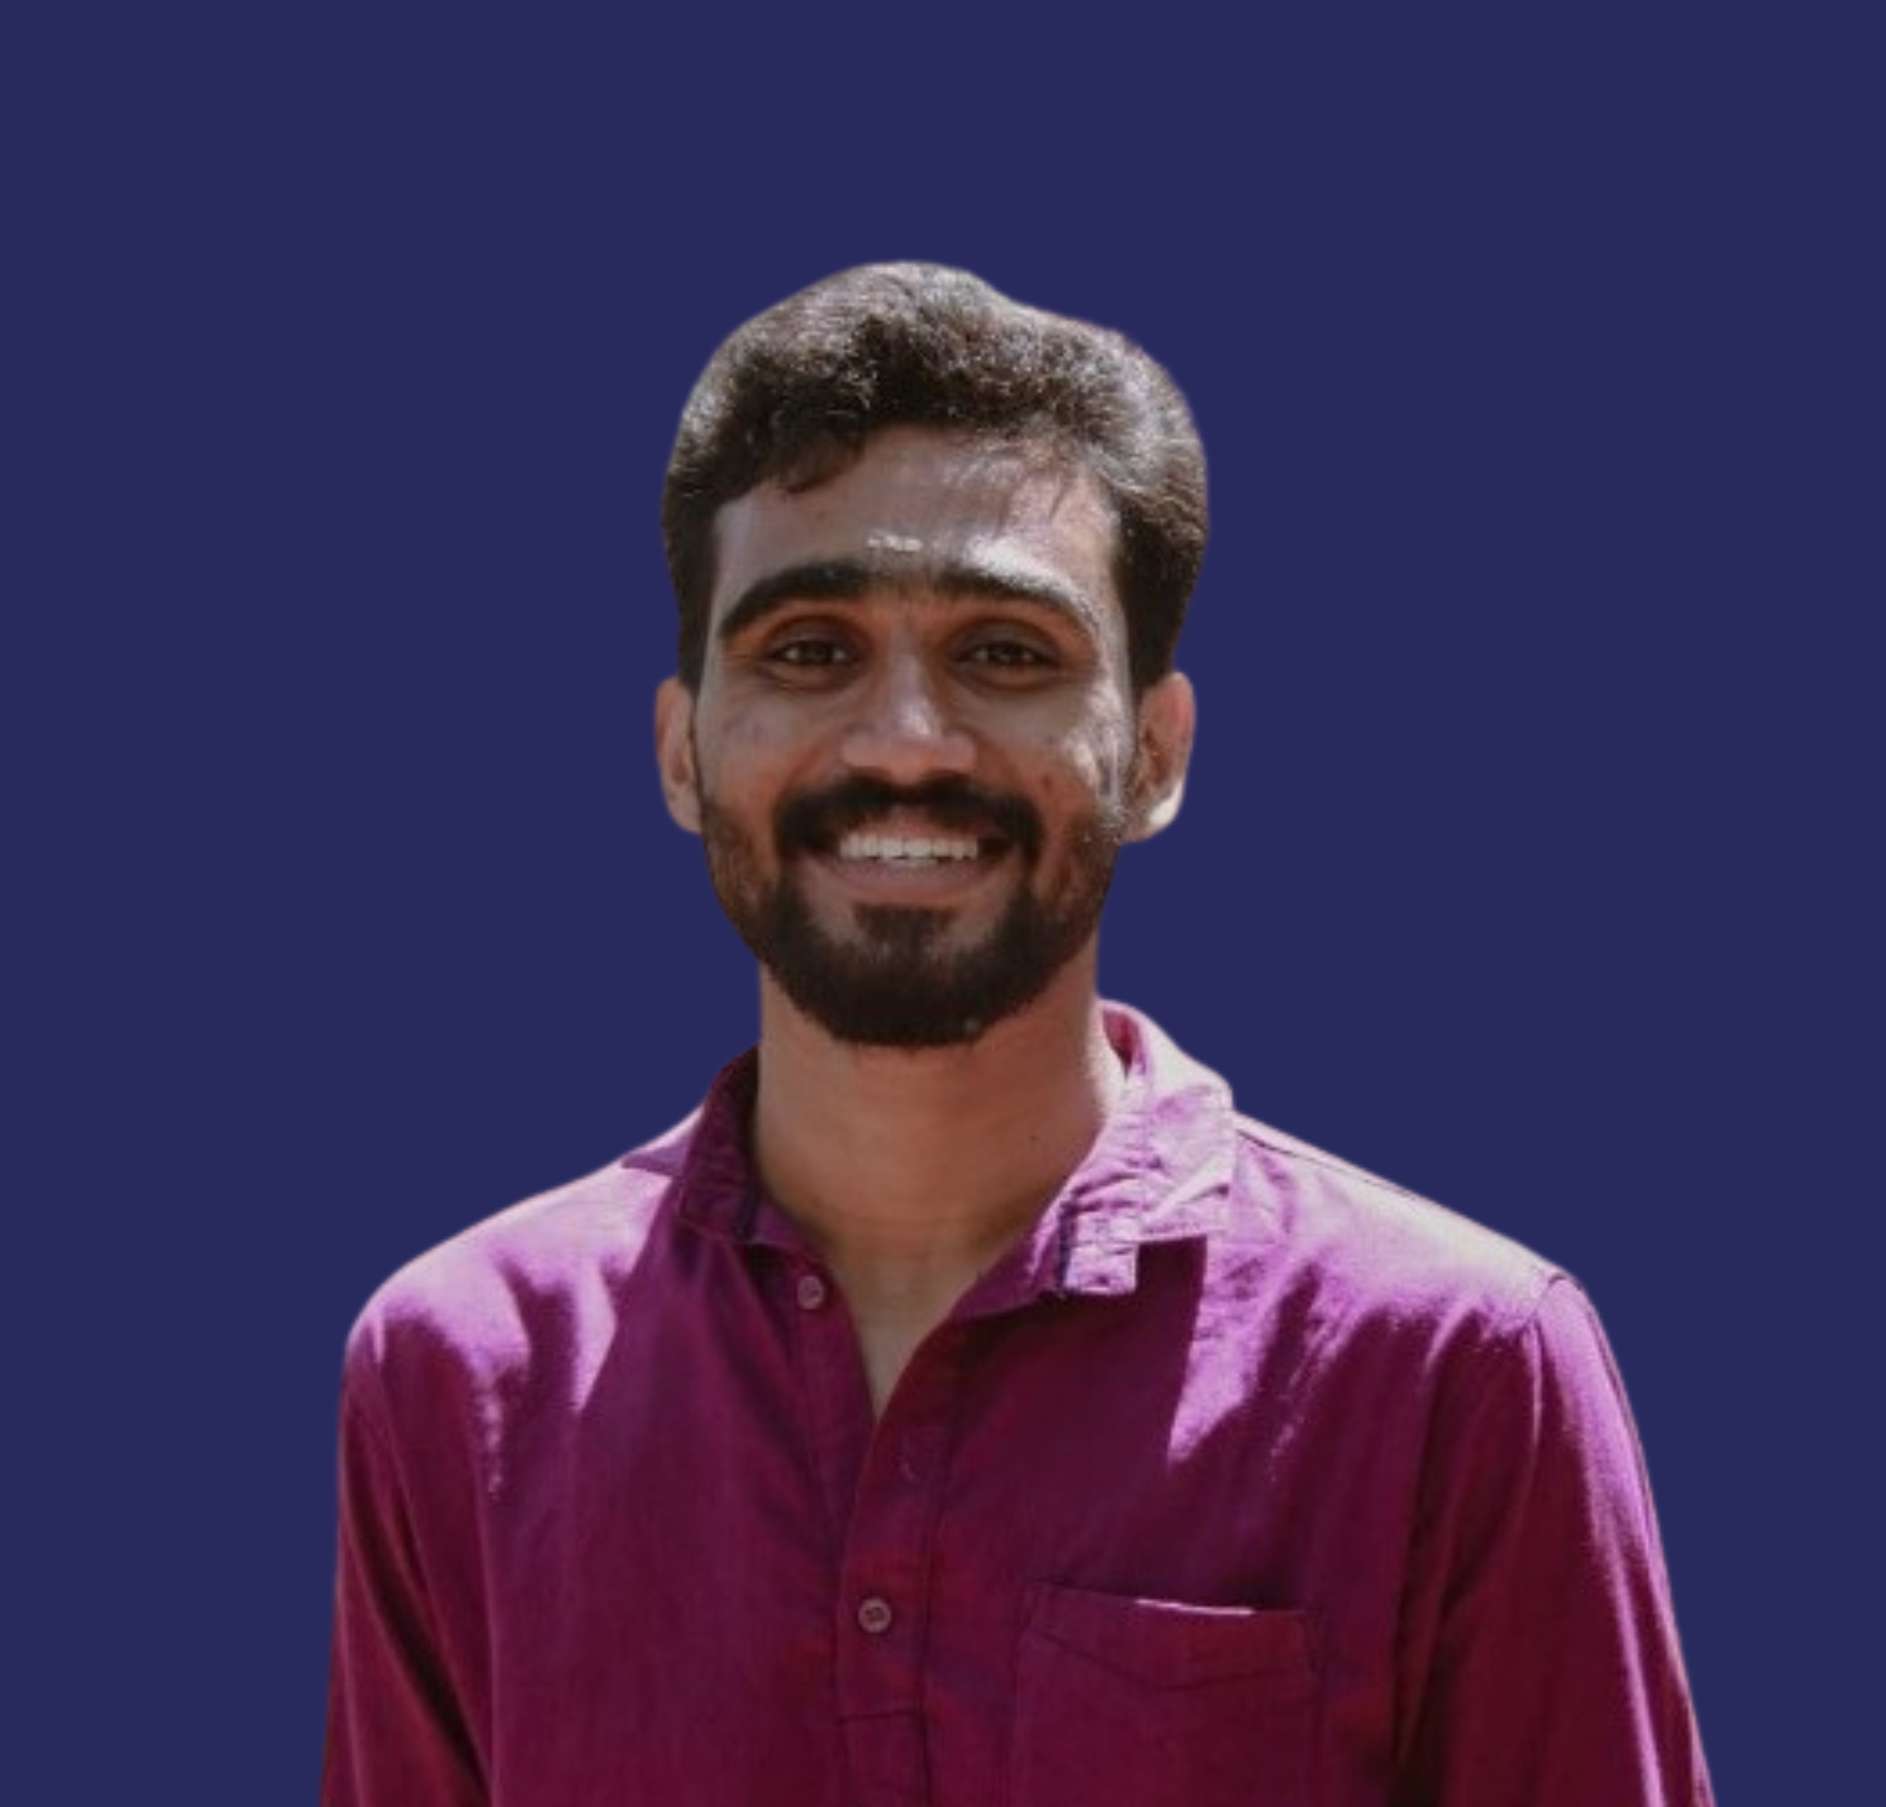
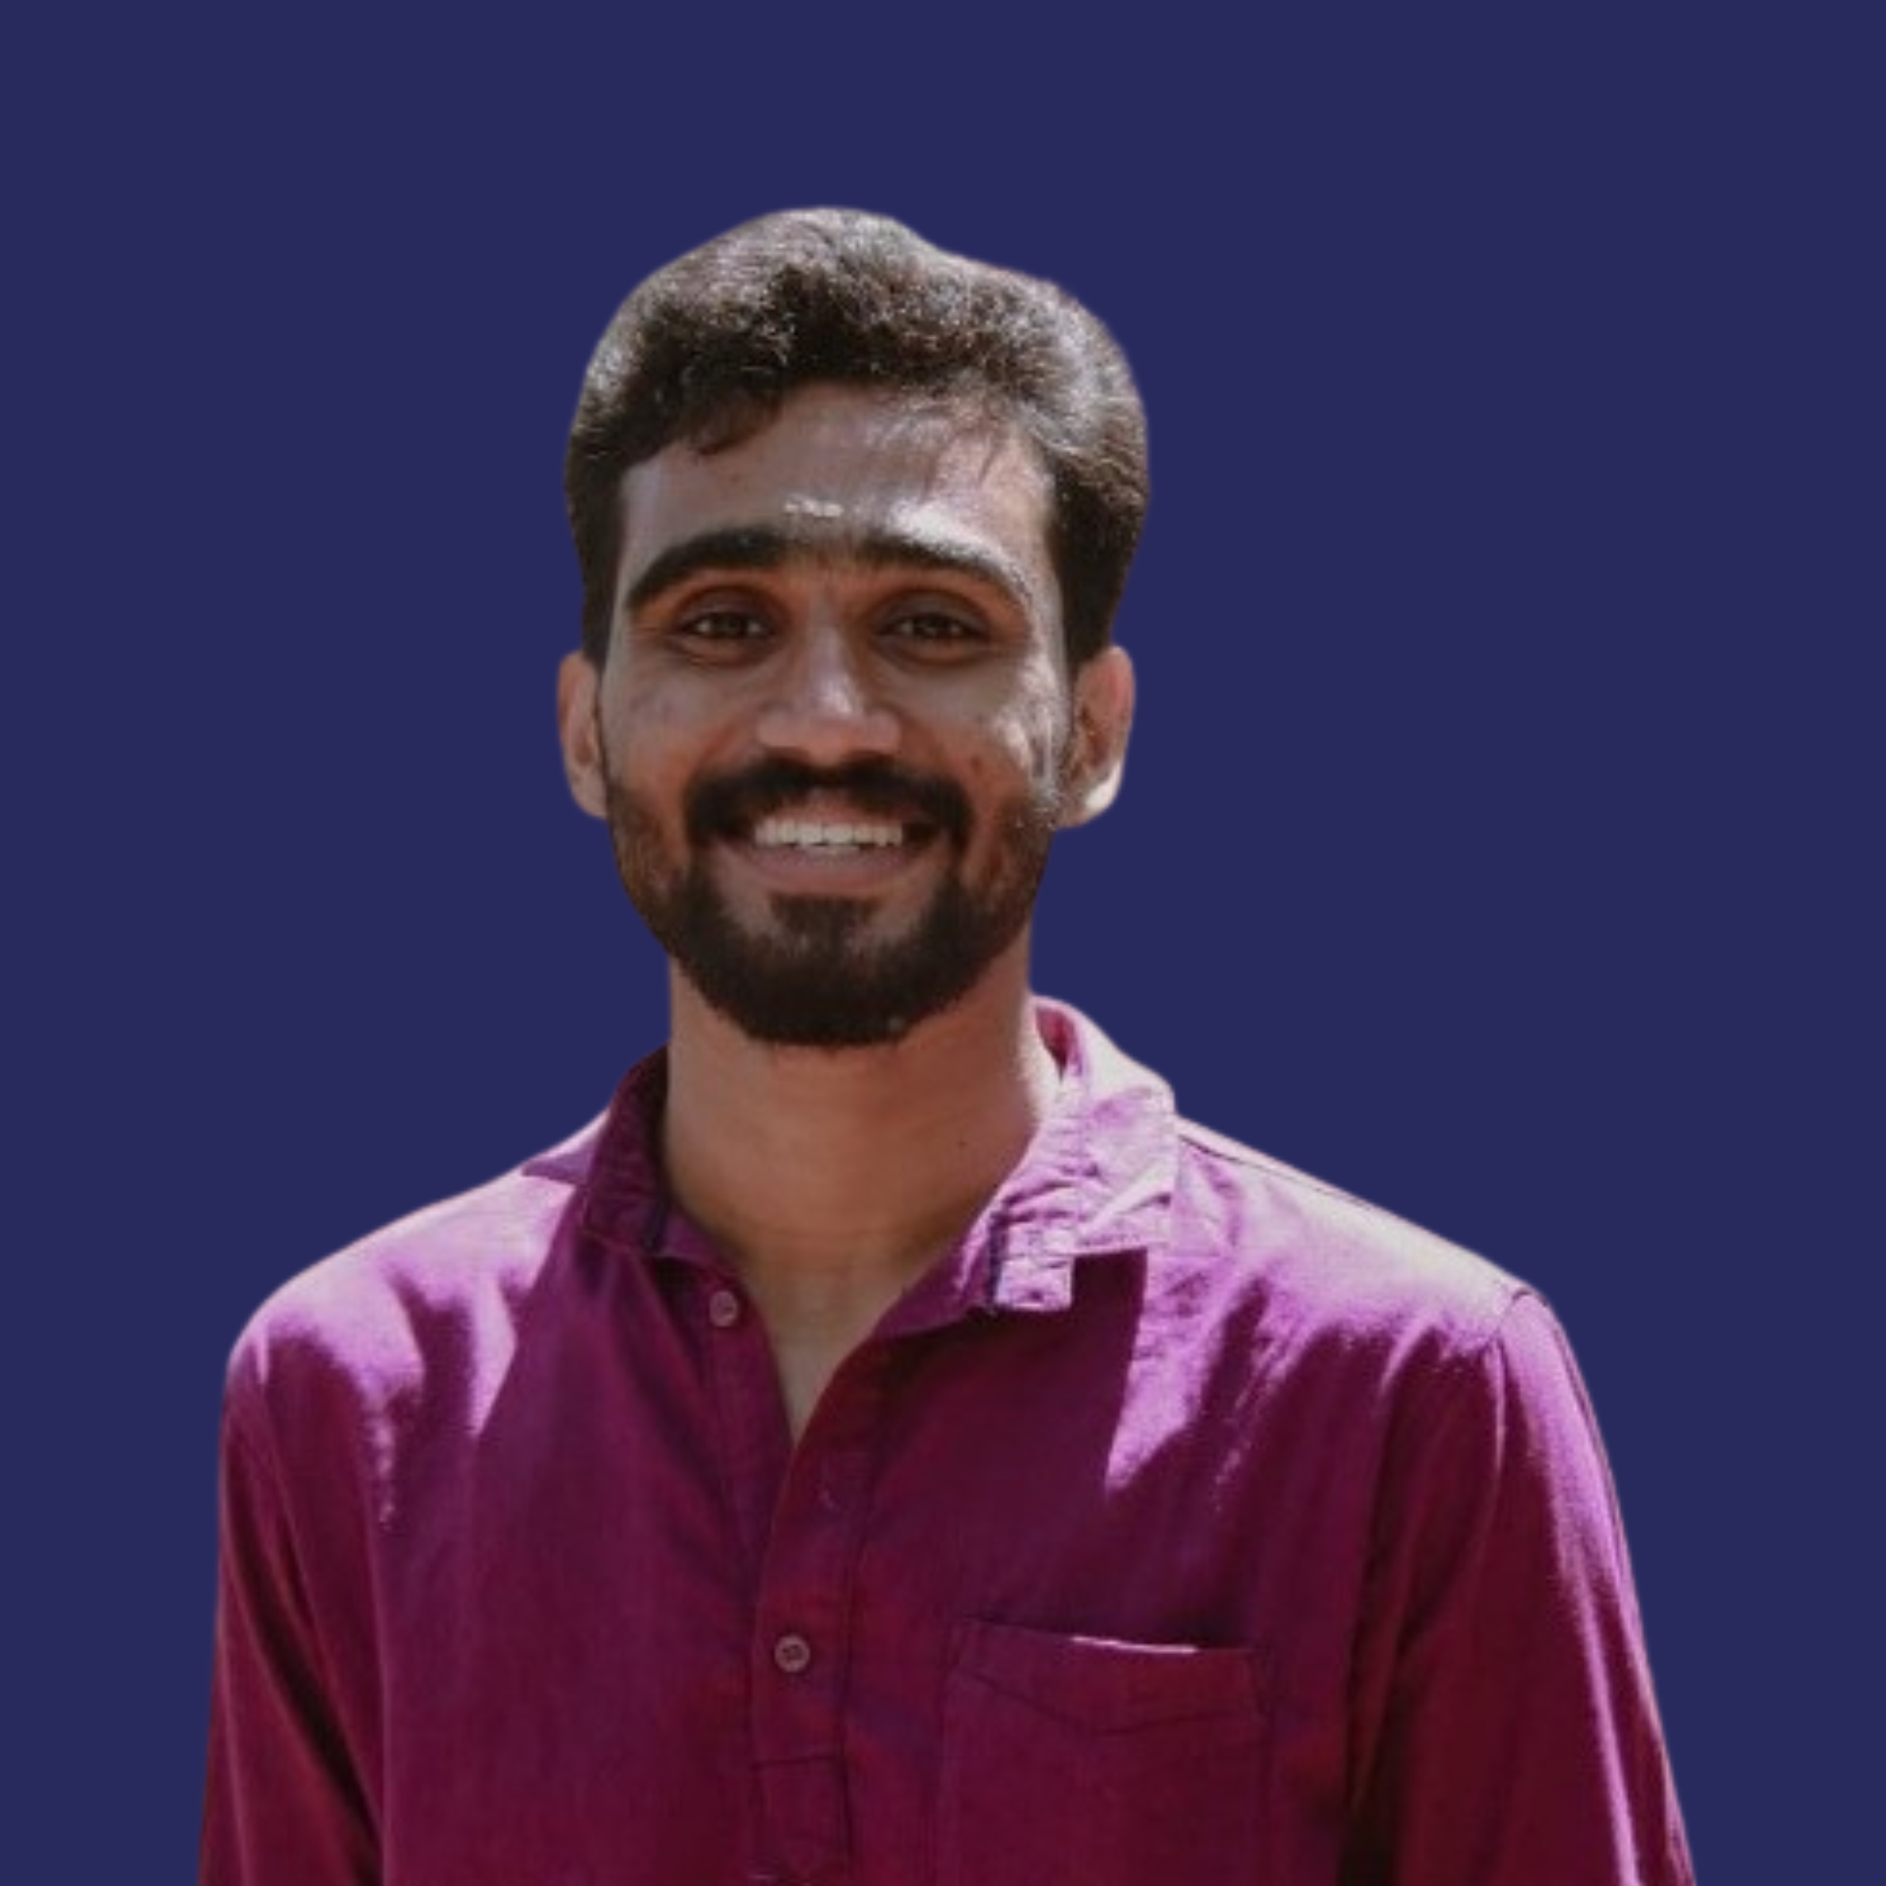
Updated mentor images and modified pages

Changed region(s): [[0.0933, 0.0937, 0.9333, 1.0], [0.6844, 0.781, 0.7778, 1.0], [0.56, 0.8435, 0.6844, 0.906]]

diff --git a/src/pages/MentorsPage.jsx b/src/pages/MentorsPage.jsx
@@ -5,6 +5,11 @@ import mentor2 from "../img/mentors/mentor2.png";
 import mentor3 from "../img/mentors/mentor3.png";
 import mentor4 from "../img/mentors/mentor4.png";
 import mentor5 from "../img/mentors/mentor5.png";
+import mentor6 from "../img/mentors/mentor6.png";
+import mentor7 from "../img/mentors/mentor7.png";
+import mentor8 from "../img/mentors/mentor8.png";
+import mentor9 from "../img/mentors/mentor9.png";
+import mentor10 from "../img/mentors/mentor10.png";
 
 const mentorsData = [
   {
@@ -49,6 +54,54 @@ Passionate about empowering students, she believes in not only preparing them fo
     image: mentor2,
     details: `Ms. Ancy Angelin is a committed educator with expertise in Education and English Literature, equipping her to guide aspirants effectively in both Paper One and Paper Two of the UGC NET. She is recognized for her ability to simplify complex concepts and present them in ways that are clear, structured, and engaging.
 Her approach blends research-based methods with practical insights, helping aspirants prepare confidently. She views teaching as a journey beyond exams, fostering both academic excellence and personal growth.
+`
+  },
+  {
+    id: 6,
+    name: "Mr.Amaldev S",
+    title: "Course Facilitator – Commerce",
+    image: mentor6,
+    details: `Mr. Amaldev.S, is a Postgraduate in commerce from University of Kerala specialized in finance. Qualified UGC NET exam for pursuing PHD and prepared research paper on the topic "Night Life Tourism for Economic Blooming". Also participated in the pre-conference of 45th All India Accounting Conference & International Seminar on Accounting Education and Research jointly organised by the Indian Accounting Association, Kerala Branch and Department of Commerce, University of Kerala.
+`
+  },
+  {
+    id: 7,
+    name: "Ms. J S S Devi",
+    title: "Course Facilitator – English",
+    image: mentor7,
+    details: `J S S Devi is a UGC-NET qualified educator and academic mentor specializing in English Literature. A topper during her master’s degree, she combines academic excellence with practical expertise gained through 2 years of dedicated teaching experience as an Assistant Professor (Guest Lecturer). This blend of strong subject knowledge and classroom practice enables her to design highly effective, result-oriented learning strategies for aspirants.
+Beyond classroom teaching, she is committed to continuous academic growth, regularly updating her knowledge in literature to bring the latest insights into lectures. She views education as more than just exam preparation—it is about nurturing independent learners, future educators, and researchers who will contribute meaningfully to the academic community. She also has experience as a language trainer.
+
+`
+  },
+  {
+    id: 8,
+    name: "Ms. Anusha CM",
+    title: "Course Facilitator – Law",
+    image: mentor8,
+    details: `Ms. Anusha C M is a Law educator who had attained her LL.B Degree from Govt. Law College, Ernakulam under MG University and enrolled as advocate on Bar Council of Kerala & completed her LL.M Degree in International Law from Govt. Law College, Thiruvananthapuram under Kerala University.
+Dedicated and experienced Law educator with 10+ years of expertise in teaching and tutoring students of various ages and skill levels. Proven ability to create personalized lesson plans, effectively balance tutoring hours, and maintain strong relationships with students. Adept at using technology to enhance learning experiences and committed to providing high-quality educational support for LL.B, LL.M, KLEE, and UGC NET aspirants.
+
+`
+  },
+  {
+    id: 9,
+    name: "Ms. Aditi P Nair",
+    title: "Course Facilitator – Life Sciences",
+    image: mentor9,
+    details: `Aditi P Nair is a recent postgraduate in MSc Molecular Medicine and did her bachelor’s in Zoology. She has a strong academic foundation starting from school days which is reflected in her academic records - from being the school topper during 10th grade to graduating both her bachelor’s and master's degrees with distinction. Her research experience spans microbial techniques, cell culturing, molecular biology, bioinformatics, and animal handling.
+Aditi has qualified the CSIR-UGC NET (LS AIR 21, July 2025) and is also GATE 2025 qualified. With her academic excellence, research exposure, and teaching aptitude, she is dedicated to mentoring students for competitive examinations in life sciences, helping them build both conceptual clarity and problem-solving skills.
+
+`
+  },
+  {
+    id: 10,
+    name: "Ms. Ardra T S",
+    title: "Course Facilitator – Disaster Management",
+    image: mentor10,
+    details: `Ardra T S is a UGC-NET qualified educator and academic mentor specialising in Disaster Management. A topper during her Master’s program, she exemplifies academic excellence with strong subject knowledge and well-rounded expertise in both UGC NET Paper 1 and Disaster Management.
+She adopts a systematic, result-oriented teaching methodology, focused on building clarity, precision, and exam readiness through structured learning practices. By consistently updating her knowledge, she ensures her teaching aligns with evolving academic standards and empowers learners with current, relevant insights.
+
 `
   },
 ];

diff --git a/src/pages/About.jsx b/src/pages/About.jsx
@@ -18,7 +18,10 @@ function AboutUs() {
       <div className="about-container">
         <h1 className="about-title">About Us</h1>
         <p className="about-description">
-          <strong>NETICS</strong> is built on a vision to empower learners and professionals through education and technology. We operate through two dynamic divisions —<strong>NETICS ACADEMY</strong>  and <strong>NETICS IT INNOVATIONS</strong> — each dedicated to excellence in their respective fields.{" "}
+          <strong>NETICS</strong> is built on a vision to empower learners and 
+          professionals through education and technology. We operate through two 
+          dynamic divisions —<strong>NETICS ACADEMY</strong>  and <strong>NETICS IT INNOVATIONS</strong> — each dedicated to excellence in their 
+          respective fields.{" "}
         </p>
 
         <div className="about-cards">
@@ -30,11 +33,11 @@ function AboutUs() {
             <div className="about-text">
               <h2><i class="fa-solid fa-building"></i> NETICS ACADEMY</h2>
               <p>
-               At Netics Academy, we focus on competitive exam coaching and language training programs. 
-               With a specialized approach, we prepare aspirants for UGC NET, SET, KTET, and CTET examinations, 
-               while also offering language training that enhances communication skills and academic growth.
-                Our mission is to guide learners with the right strategies, knowledge, and mentorship to help them 
-                achieve academic and professional success.
+              At Netics Academy, we focus on competitive exam coaching and language training programs. 
+              With a specialized approach, we prepare aspirants for UGC NET, SET, KTET,CSIR NET and CTET examinations, 
+              while also offering language training that enhances communication skills and academic growth. 
+              Our mission is to guide learners with the right strategies, 
+              knowledge, and mentorship to help them achieve academic and professional success.
               </p>
             </div>
           </div>
@@ -47,10 +50,10 @@ function AboutUs() {
             <div className="about-text">
               <h2><i class="fa-solid fa-building"></i><a href="https://neticstrainings.com/"> NETICS IT INNOVATION</a></h2>
               <p>
-                Our IT division, Netics IT Innovations, 
-                is dedicated to technology-driven learning and development.
-                 We conduct IT-related courses designed to build future-ready skills and also undertake 
-                 web development projects to support businesses and institutions in the digital space.
+              Our IT division, Netics IT Innovations, is dedicated to technology-driven learning and development.
+              We conduct IT-related courses designed to build future-ready skills and also undertake web development projects to support 
+              businesses and institutions in the digital space.
+
 
               </p>
             </div>
@@ -61,7 +64,7 @@ function AboutUs() {
             <div className="about-text full-width">
               <h2><i class="fa-solid fa-user-group"></i> OUR FOUNDER</h2>
               <p>
-                Netics was founded by <strong>Mr. Sivakumar</strong> and Mr. <strong>Mr. Sibi M Raj</strong>, who share a passion for education and technology. With years of experience in the education sector, they envisioned Netics as a platform where{" "}
+                Netics was founded by <strong>Mr. Sivakumar</strong> and <strong>Mr. Sibi M Raj</strong>, who share a passion for education and technology. With years of experience in the education sector, they envisioned <strong>Netics</strong>  as a platform where{" "}
                 , a platform where{" "}
                 <em>Aspirants Become Achievers</em> and{" "}
                 <em>Innovations drive growth</em>.

diff --git a/src/components/MainPage.jsx b/src/components/MainPage.jsx
@@ -11,12 +11,12 @@ const AboutSection = () => {
 
           {/* Content (left on desktop, first on mobile) */}
           <div className="col-lg-6 d-flex flex-column justify-content-center px-5 py-5 order-1 order-lg-2 content-col">
-            <h2 className="display-5 about-heading">Netics Academy</h2>
+            <h2 className="display-5 about-heading">NETICS ACADEMY</h2>
             <p className="about-subtitle mb-4">"Aspirants Become Achievers"</p>
             <p className="text-muted mb-4">
-              At <span className="fw-semibold text-primary">Netics Academy</span>, we are committed to shaping futures through quality education and expert guidance.  
-              We specialize in coaching for <span className="fw-bold">UGC NET, SET, KTET, and CTET</span> exams.  
-              Beyond competitive exams, we also offer <span className="fw-semibold">language training programs</span> 
+              At <span className="fw-semibold text-primary">NETICS ACADEMY</span>, we are committed to shaping futures through quality education and expert guidance.  
+              We specialize in coaching for <span className="fw-bold">UGC NET, SET,CSIR NET, KTET, and CTET</span> exams.  
+              Beyond competitive exams, we also offer <span className="fw-semibold">language training programs </span> 
               to strengthen communication skills and support overall academic and professional growth.
             </p>
             <p className="text-muted mb-4">Our mission is to empower aspirants with knowledge, skills, and confidence to achieve their goals.
@@ -26,7 +26,7 @@ const AboutSection = () => {
             {/* On mobile: show image here */}
             <div className="mobile-inline-image d-lg-none mb-4">
               <img
-                src={require("../img/hero-img.jpeg")}
+                src={require("../img/hero-img.png")}
                 alt="Netics Academy"
                 className="img-fluid about-hero-img-inline"
               />
@@ -90,7 +90,7 @@ const AboutSection = () => {
           {/* Image Column (desktop, and hidden on mobile since inline image covers mobile) */}
           <div className="col-lg-6 col-12 about-image-col order-2 order-lg-1 d-none d-lg-block">
             <img
-              src={require("../img/hero-img.jpeg")}
+              src={require("../img/hero-img.png")}
               alt="Netics Academy"
               className="img-fluid about-hero-img"
             />

diff --git a/src/pages/Mentors.jsx b/src/pages/Mentors.jsx
@@ -7,6 +7,9 @@ import mentor5 from "../img/mentors/mentor5.png";
 import mentor6 from "../img/mentors/mentor6.png";
 import mentor7 from "../img/mentors/mentor7.png";
 import mentor8 from "../img/mentors/mentor8.png";
+import mentor9 from "../img/mentors/mentor9.png";
+import mentor10 from "../img/mentors/mentor10.png";
+
 import "./Mentors.css";
 
 export default function Mentors() {
@@ -19,6 +22,8 @@ export default function Mentors() {
     { title: "Education", img: mentor2 },
     { title: "English", img: mentor6},
     { title: "Law", img: mentor8},
+    { title: "Life Sciences", img: mentor9 },
+    { title: "Disaster Management", img: mentor10 },
   ];
 
   return (

diff --git a/public/index.html b/public/index.html
@@ -9,6 +9,11 @@
       name="description"
       content="Web site created using create-react-app"
     />
+    <link
+  href="https://fonts.googleapis.com/css2?family=Open+Sans:wght@300;400;600;700&display=swap"
+  rel="stylesheet"
+/>
+
     <link rel="apple-touch-icon" href="%PUBLIC_URL%/logo192.png" />
     <link href="https://cdnjs.cloudflare.com/ajax/libs/font-awesome/6.5.0/css/all.min.css" rel="stylesheet" />
 

diff --git a/src/App.css b/src/App.css
@@ -6,6 +6,10 @@
   --text-light: #57595f;
 }
 
+* {
+  font-family: 'Open Sans', sans-serif;
+}
+
 .App {
   text-align: center;
   background-color: var(--background);
